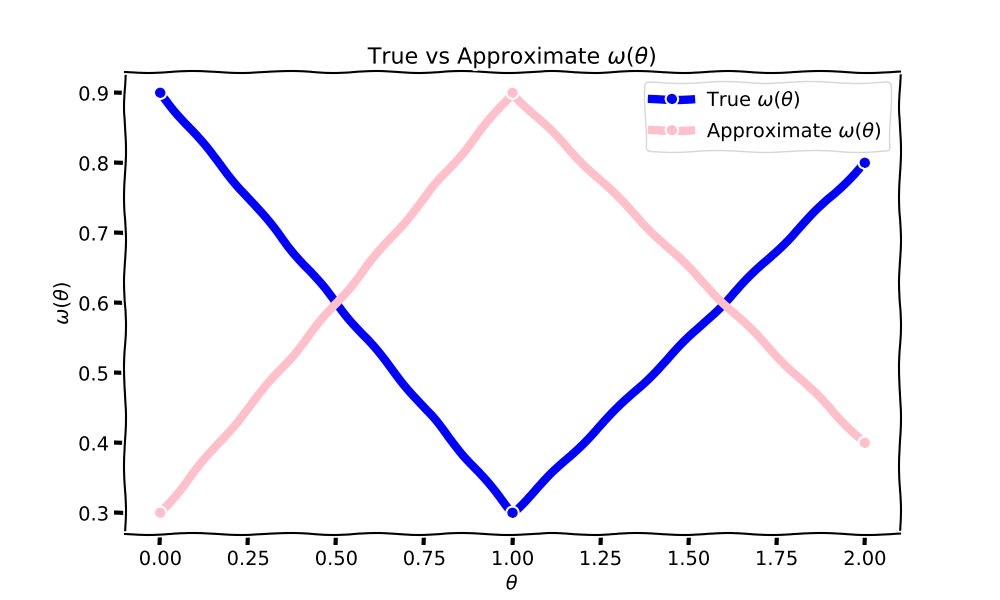
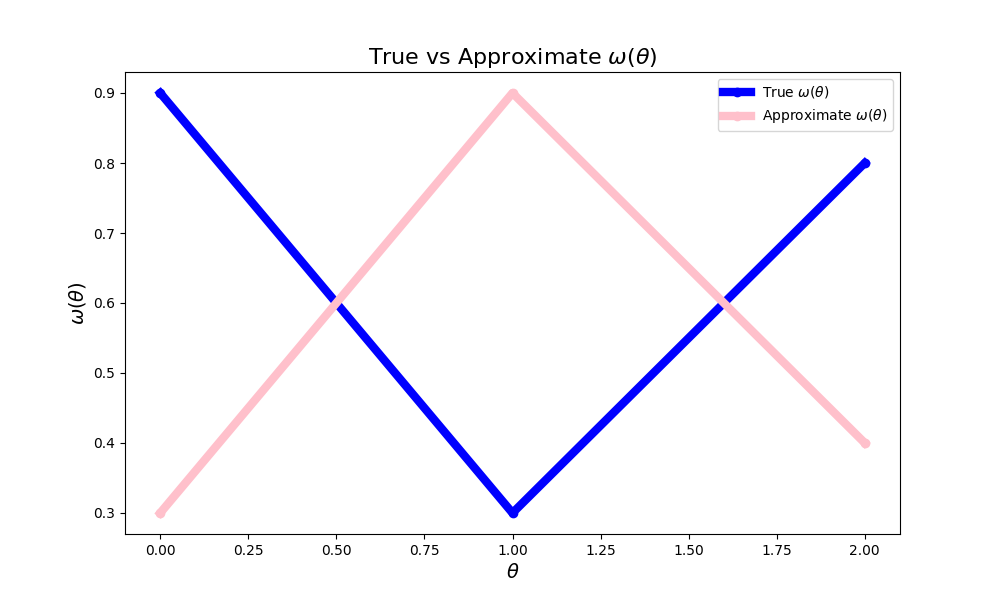
toy

diff --git a/assets/toy_corr.py b/assets/toy_corr.py
@@ -10,7 +10,7 @@ red_data = np.array([0.3, 0.9, 0.4])
 x = np.arange(bar_count)
 
 # Use the xkcd plotting style
-plt.xkcd()
+#plt.xkcd()
 
 # Create a figure with a larger size
 plt.figure(figsize=(10, 6))
